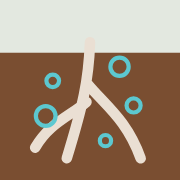
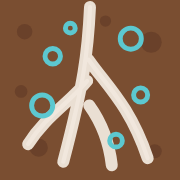
Add files via upload

diff --git a/index.html b/index.html
@@ -3,6 +3,7 @@
 <head>
 <meta charset="utf-8">
 <meta name="viewport" content="width=device-width,initial-scale=1,viewport-fit=cover">
+<meta name="mobile-web-app-capable" content="yes">
 <meta name="apple-mobile-web-app-capable" content="yes">
 <meta name="apple-mobile-web-app-status-bar-style" content="default">
 <meta name="apple-mobile-web-app-title" content="RootOxy">
@@ -253,7 +254,7 @@ nav.tabs{position:fixed;left:0;right:0;bottom:0;z-index:6;background:var(--surfa
 
 <script>
 (function(){
-const APP_VER = "v1.6.1 · 2026-10-14";
+const APP_VER = "v1.6.2 · 2026-10-14";
 const APP_URL = "https://stanleywoosweeleong.github.io/rootoxy/";
 const QR_N = 37, QR_PATH = "M2 2h7v1h-7zM10 2h2v1h-2zM13 2h2v1h-2zM16 2h5v1h-5zM23 2h1v1h-1zM25 2h1v1h-1zM28 2h7v1h-7zM2 3h1v1h-1zM8 3h1v1h-1zM13 3h2v1h-2zM18 3h2v1h-2zM21 3h1v1h-1zM26 3h1v1h-1zM28 3h1v1h-1zM34 3h1v1h-1zM2 4h1v1h-1zM4 4h3v1h-3zM8 4h1v1h-1zM11 4h1v1h-1zM14 4h2v1h-2zM22 4h2v1h-2zM25 4h2v1h-2zM28 4h1v1h-1zM30 4h3v1h-3zM34 4h1v1h-1zM2 5h1v1h-1zM4 5h3v1h-3zM8 5h1v1h-1zM10 5h5v1h-5zM16 5h2v1h-2zM19 5h2v1h-2zM22 5h1v1h-1zM24 5h1v1h-1zM26 5h1v1h-1zM28 5h1v1h-1zM30 5h3v1h-3zM34 5h1v1h-1zM2 6h1v1h-1zM4 6h3v1h-3zM8 6h1v1h-1zM10 6h2v1h-2zM13 6h1v1h-1zM16 6h1v1h-1zM20 6h3v1h-3zM25 6h1v1h-1zM28 6h1v1h-1zM30 6h3v1h-3zM34 6h1v1h-1zM2 7h1v1h-1zM8 7h1v1h-1zM10 7h1v1h-1zM12 7h2v1h-2zM15 7h2v1h-2zM18 7h1v1h-1zM21 7h1v1h-1zM24 7h1v1h-1zM26 7h1v1h-1zM28 7h1v1h-1zM34 7h1v1h-1zM2 8h7v1h-7zM10 8h1v1h-1zM12 8h1v1h-1zM14 8h1v1h-1zM16 8h1v1h-1zM18 8h1v1h-1zM20 8h1v1h-1zM22 8h1v1h-1zM24 8h1v1h-1zM26 8h1v1h-1zM28 8h7v1h-7zM10 9h4v1h-4zM16 9h5v1h-5zM23 9h1v1h-1zM25 9h1v1h-1zM2 10h1v1h-1zM6 10h1v1h-1zM8 10h3v1h-3zM12 10h2v1h-2zM19 10h1v1h-1zM21 10h11v1h-11zM34 10h1v1h-1zM2 11h1v1h-1zM4 11h3v1h-3zM9 11h1v1h-1zM14 11h2v1h-2zM17 11h2v1h-2zM20 11h1v1h-1zM23 11h3v1h-3zM27 11h1v1h-1zM31 11h3v1h-3zM2 12h1v1h-1zM4 12h2v1h-2zM7 12h2v1h-2zM10 12h2v1h-2zM13 12h2v1h-2zM17 12h3v1h-3zM22 12h1v1h-1zM25 12h1v1h-1zM31 12h1v1h-1zM33 12h1v1h-1zM2 13h3v1h-3zM9 13h2v1h-2zM12 13h2v1h-2zM16 13h1v1h-1zM19 13h5v1h-5zM26 13h1v1h-1zM28 13h1v1h-1zM33 13h1v1h-1zM4 14h1v1h-1zM7 14h3v1h-3zM11 14h7v1h-7zM20 14h3v1h-3zM25 14h1v1h-1zM28 14h4v1h-4zM34 14h1v1h-1zM2 15h1v1h-1zM4 15h4v1h-4zM11 15h1v1h-1zM18 15h2v1h-2zM21 15h1v1h-1zM23 15h1v1h-1zM25 15h1v1h-1zM27 15h1v1h-1zM29 15h1v1h-1zM32 15h1v1h-1zM2 16h1v1h-1zM7 16h4v1h-4zM12 16h5v1h-5zM18 16h4v1h-4zM23 16h6v1h-6zM31 16h3v1h-3zM5 17h1v1h-1zM7 17h1v1h-1zM10 17h1v1h-1zM14 17h2v1h-2zM19 17h1v1h-1zM21 17h3v1h-3zM26 17h3v1h-3zM31 17h1v1h-1zM2 18h1v1h-1zM6 18h3v1h-3zM11 18h1v1h-1zM13 18h1v1h-1zM16 18h2v1h-2zM19 18h1v1h-1zM23 18h4v1h-4zM28 18h1v1h-1zM30 18h1v1h-1zM33 18h1v1h-1zM2 19h2v1h-2zM5 19h3v1h-3zM9 19h2v1h-2zM15 19h3v1h-3zM19 19h2v1h-2zM23 19h3v1h-3zM31 19h2v1h-2zM4 20h1v1h-1zM6 20h1v1h-1zM8 20h1v1h-1zM12 20h3v1h-3zM17 20h1v1h-1zM20 20h1v1h-1zM22 20h1v1h-1zM25 20h5v1h-5zM31 20h1v1h-1zM33 20h1v1h-1zM2 21h1v1h-1zM5 21h2v1h-2zM10 21h1v1h-1zM12 21h1v1h-1zM14 21h1v1h-1zM21 21h1v1h-1zM24 21h2v1h-2zM27 21h3v1h-3zM3 22h1v1h-1zM6 22h3v1h-3zM11 22h1v1h-1zM14 22h1v1h-1zM16 22h1v1h-1zM18 22h1v1h-1zM21 22h1v1h-1zM24 22h1v1h-1zM26 22h1v1h-1zM28 22h1v1h-1zM30 22h2v1h-2zM33 22h1v1h-1zM2 23h1v1h-1zM4 23h4v1h-4zM12 23h3v1h-3zM20 23h3v1h-3zM25 23h1v1h-1zM27 23h1v1h-1zM31 23h1v1h-1zM33 23h1v1h-1zM4 24h1v1h-1zM6 24h3v1h-3zM10 24h1v1h-1zM13 24h1v1h-1zM16 24h2v1h-2zM19 24h2v1h-2zM22 24h1v1h-1zM25 24h1v1h-1zM31 24h3v1h-3zM5 25h3v1h-3zM10 25h11v1h-11zM23 25h1v1h-1zM25 25h4v1h-4zM34 25h1v1h-1zM2 26h2v1h-2zM7 26h4v1h-4zM14 26h2v1h-2zM19 26h1v1h-1zM21 26h1v1h-1zM23 26h2v1h-2zM26 26h5v1h-5zM10 27h2v1h-2zM16 27h3v1h-3zM20 27h1v1h-1zM26 27h1v1h-1zM30 27h1v1h-1zM32 27h2v1h-2zM2 28h7v1h-7zM10 28h4v1h-4zM15 28h5v1h-5zM22 28h3v1h-3zM26 28h1v1h-1zM28 28h1v1h-1zM30 28h2v1h-2zM33 28h1v1h-1zM2 29h1v1h-1zM8 29h1v1h-1zM11 29h1v1h-1zM13 29h1v1h-1zM19 29h5v1h-5zM26 29h1v1h-1zM30 29h1v1h-1zM2 30h1v1h-1zM4 30h3v1h-3zM8 30h1v1h-1zM10 30h1v1h-1zM13 30h1v1h-1zM15 30h1v1h-1zM17 30h1v1h-1zM20 30h1v1h-1zM22 30h1v1h-1zM26 30h6v1h-6zM34 30h1v1h-1zM2 31h1v1h-1zM4 31h3v1h-3zM8 31h1v1h-1zM11 31h1v1h-1zM13 31h1v1h-1zM15 31h1v1h-1zM18 31h2v1h-2zM21 31h1v1h-1zM23 31h2v1h-2zM26 31h1v1h-1zM28 31h3v1h-3zM33 31h1v1h-1zM2 32h1v1h-1zM4 32h3v1h-3zM8 32h1v1h-1zM12 32h2v1h-2zM15 32h1v1h-1zM18 32h1v1h-1zM20 32h2v1h-2zM27 32h4v1h-4zM2 33h1v1h-1zM8 33h1v1h-1zM11 33h1v1h-1zM13 33h3v1h-3zM19 33h5v1h-5zM26 33h3v1h-3zM2 34h7v1h-7zM10 34h2v1h-2zM13 34h1v1h-1zM15 34h1v1h-1zM17 34h1v1h-1zM19 34h1v1h-1zM22 34h5v1h-5zM34 34h1v1h-1z";
 const store = {
@@ -389,7 +390,7 @@ function illoWet(){ // wet clay vs drained mound
   const lab=L(["积水黏土","根缺氧、发黑","土墩 / 高畦","空气进得去，根白又多"],["Waterlogged clay","Roots starve, turn black","Mound / raised bed","Air gets in; roots white and many"],["Tanah liat bertakung","Akar lemas, menghitam","Batas / permatang tinggi","Udara masuk; akar putih dan banyak"]);
   const l=t(lab);
   return `<svg viewBox="0 0 680 300" style="width:100%;height:auto;display:block" role="img" aria-label="${l[0]} / ${l[2]}">
-   <rect width="680" height="300" fill="var(--surface)" rx="8 8 0 0"/>
+   <rect width="680" height="300" fill="var(--surface)" rx="8"/>
    <!-- left: waterlogged -->
    <rect x="20" y="150" width="300" height="130" fill="var(--clay-soft)" rx="6"/>
    <rect x="20" y="150" width="300" height="130" fill="var(--oxy-soft)" opacity=".7" rx="6"/>
@@ -417,7 +418,7 @@ function illoReact(){ // H2O2 -> water + oxygen
   const l=t(L(["双氧水","水","氧气","到了土里"],["Hydrogen peroxide","Water","Oxygen","in the soil"],["Hidrogen peroksida","Air","Oksigen","dalam tanah"]));
   const bottle=(x,y,lab,fill)=>`<g transform="translate(${x},${y})"><rect x="-26" y="-10" width="52" height="90" rx="8" fill="${fill}" stroke="var(--ink)" stroke-width="2.5"/><rect x="-12" y="-28" width="24" height="20" rx="3" fill="var(--ink)"/></g>`;
   return `<svg viewBox="0 0 680 220" style="width:100%;height:auto;display:block" role="img" aria-label="2 H₂O₂ → 2 H₂O + O₂">
-   <rect width="680" height="220" fill="var(--surface)" rx="8 8 0 0"/>
+   <rect width="680" height="220" fill="var(--surface)" rx="8"/>
    ${bottle(90,50,l[0],'var(--oxy-soft)')}
    <text x="90" y="172" text-anchor="middle" font-size="30" fill="var(--ink)" style="${F}">H₂O₂</text>
    <text x="180" y="100" text-anchor="middle" font-size="40" fill="var(--ink)" style="${F}">→</text>
@@ -473,7 +474,7 @@ function illoPots(){ // control vs H2O2 result; S.tile picks the emphasis
     : k==="wue" ? L("每棵用水一样多，但双氧水组每升水长出更多树。","Same water per tree, but the H₂O₂ trees grew more tree per litre of water.","Air sama setiap pokok, tetapi pokok H₂O₂ tumbuh lebih banyak bagi setiap liter air.")
     : L("地上部分变大，根的重量两组一样。","Above-ground parts grew; root weight stayed the same in both groups.","Bahagian atas tumbuh; berat akar kekal sama dalam kedua-dua kumpulan."));
   return `<svg viewBox="0 0 680 320" style="width:100%;height:auto;display:block" role="img" aria-label="${l[0]} / ${l[1]}: ${tagTxt}">
-   <rect width="680" height="320" fill="var(--surface)" rx="8 8 0 0"/>
+   <rect width="680" height="320" fill="var(--surface)" rx="8"/>
    ${pot(170,l[0],ctl)}${pot(510,l[1],trt)}
    ${k==="wue"?drops(170)+drops(510):""}
   </svg>
